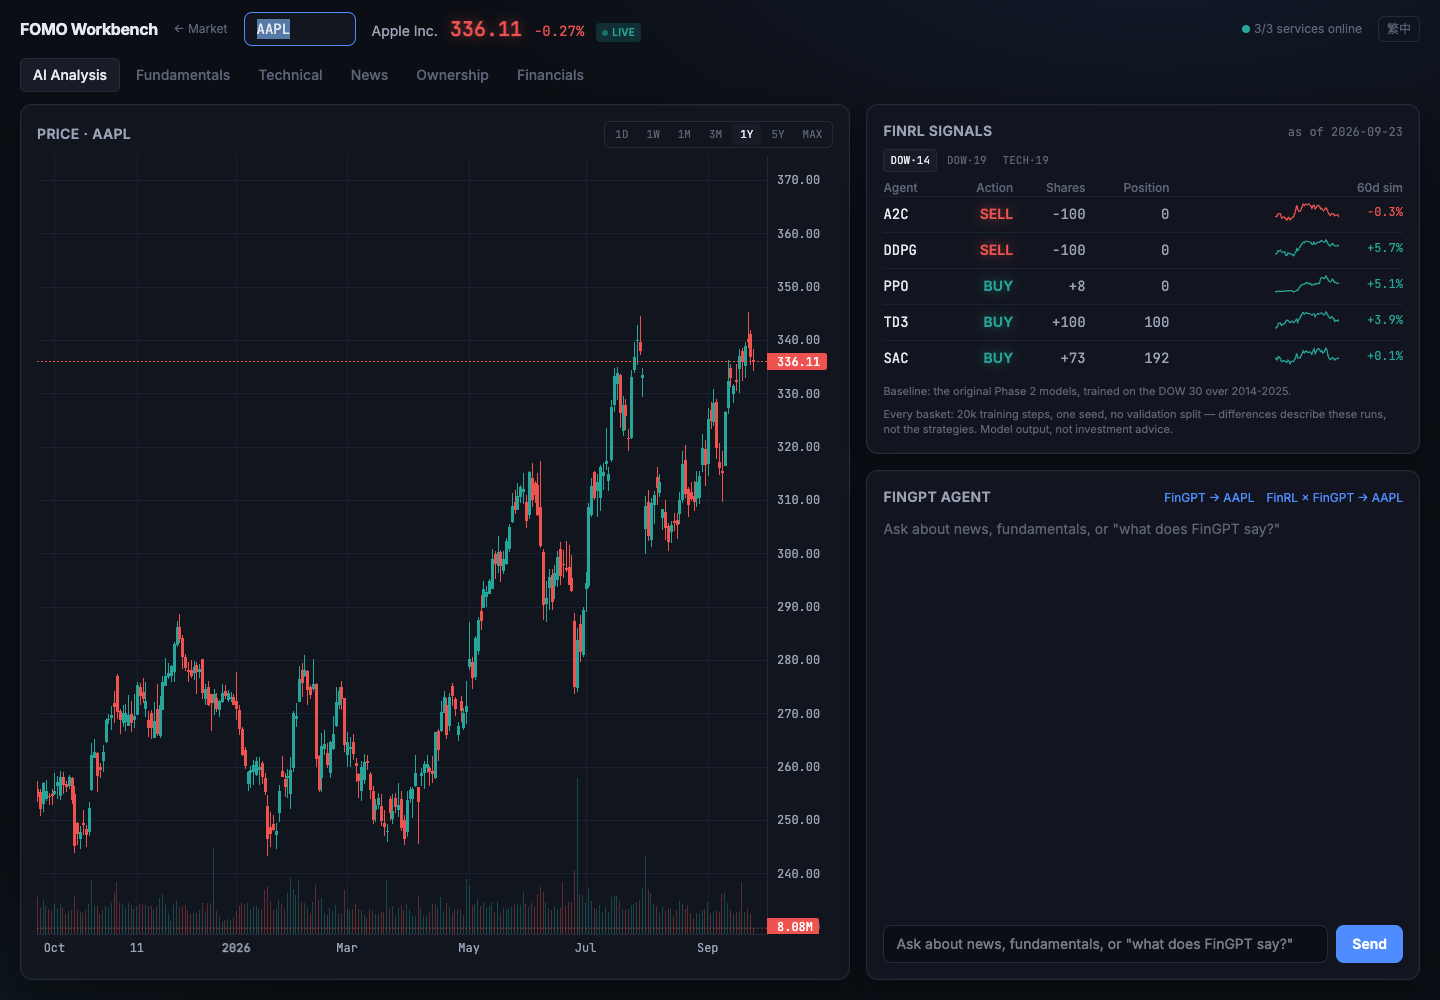
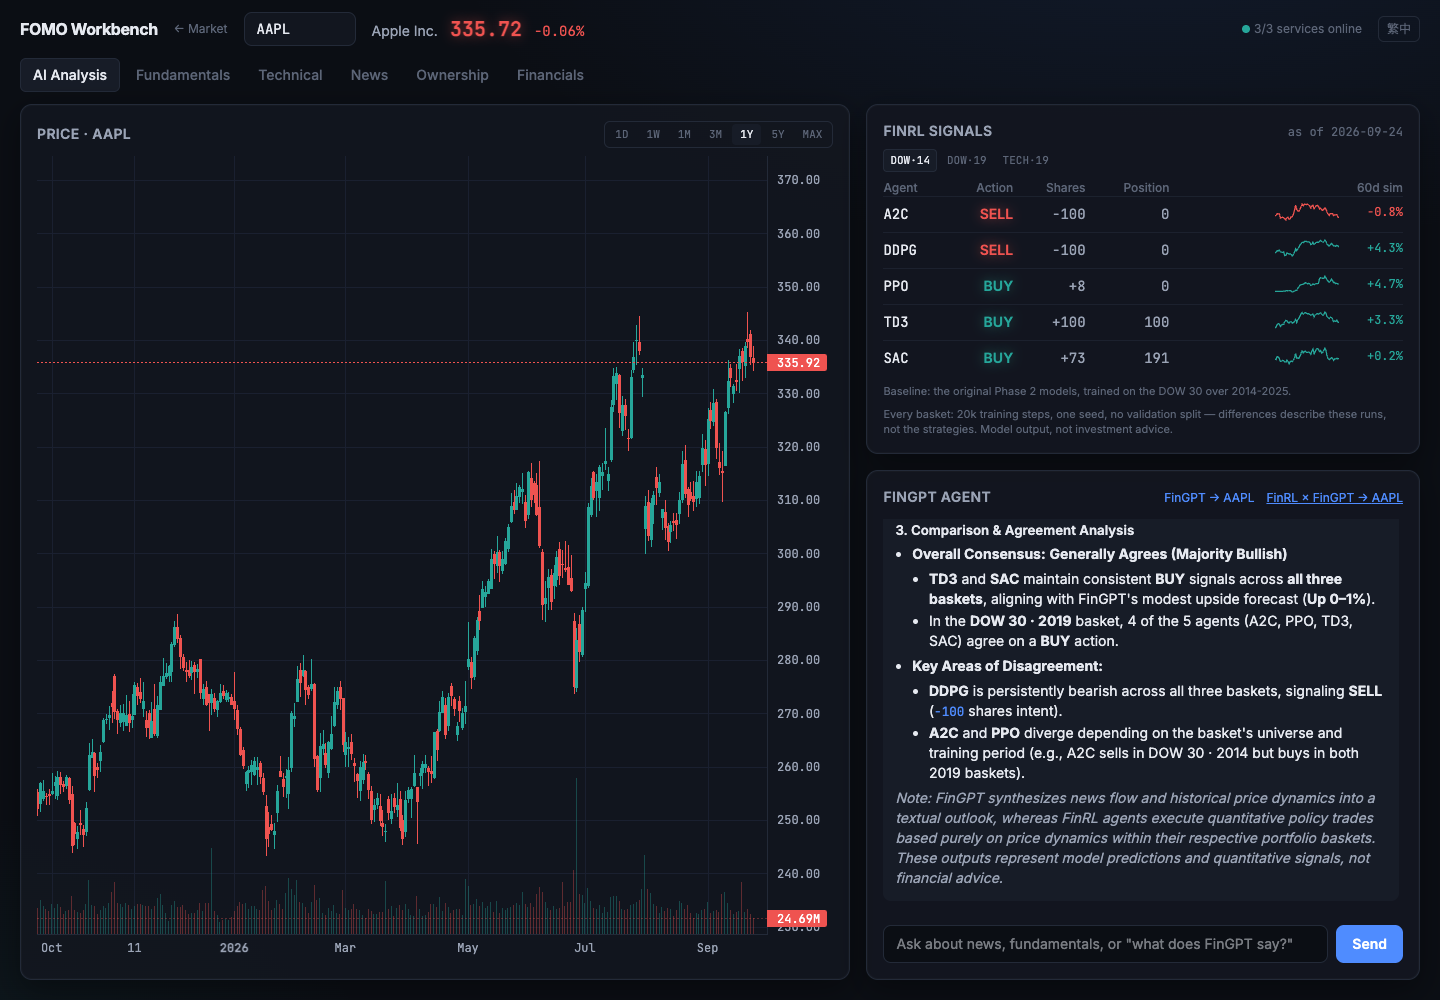
Keep the chart alive under load; cap the summary prompt; refresh stock-ai.png
A FinGPT run fires four openbb-api requests of its own, and the yfinance
provider drops requests that land together: opening a stock page during one
left the chart permanently blank with no error (the company name vanished from
the top bar too). fetchHistory now retries once on a failed or empty response.

The brief's summary prompt carried every FinGPT report in full — 16k chars for
eight tickers, and the free tier answers 503 to requests that size. It now caps
that prose at a shared budget; the predictions and FinRL tallies are untouched.

The README's stock screenshot shows a live answer again, with the assistant
pointing out that A2C and PPO flip depending on the basket's constituents and
training period.

diff --git a/ui/src/api.ts b/ui/src/api.ts
@@ -39,10 +39,20 @@ export const RANGES: Record<Range, { interval: string; days: number; intraday?: 
 export async function fetchHistory(ticker: string, range: Range = '1Y'): Promise<Bar[]> {
   const { interval, days } = RANGES[range]
   const start = new Date(Date.now() - days * 86400e3).toISOString().slice(0, 10)
-  const d = await json<{ results: Bar[] }>(`${OPENBB}/api/v1/equity/price/historical?symbol=${ticker}&provider=yfinance&start_date=${start}&interval=${interval}`)
+  const url = `${OPENBB}/api/v1/equity/price/historical?symbol=${ticker}&provider=yfinance&start_date=${start}&interval=${interval}`
+  // openbb-api's yfinance provider drops requests when several land at once (a FinGPT run fires four
+  // of its own), and a failed history fetch leaves the chart blank for good, so try once more.
+  let results: Bar[]
+  try {
+    results = (await json<{ results: Bar[] }>(url)).results
+    if (!results?.length) throw new Error('empty')
+  } catch {
+    await new Promise(r => setTimeout(r, 1500))
+    results = (await json<{ results: Bar[] }>(url)).results
+  }
   // yfinance sometimes returns a session with open/high/low/volume but close: null (seen 2026-09-22).
   // A bar with no close is unusable for every consumer — chart, indicators, top-bar price — so drop it here.
-  const bars = d.results.filter(b => b.close != null)
+  const bars = results.filter(b => b.close != null)
   if (range === '1D' && bars.length) {  // last trading session only
     const day = bars[bars.length - 1].date.slice(0, 10)
     return bars.filter(b => b.date.startsWith(day))

diff --git a/agent/brief.py b/agent/brief.py
@@ -41,6 +41,8 @@ Model outputs are opinions, not advice; do not add disclaimers, the UI shows one
 DATA:
 """
 
+ANALYSIS_BUDGET = 4500  # chars of FinGPT prose the summary prompt may carry in total (see _summary_input)
+
 _state: dict = {"running": False, "progress": None}  # progress = [done, total] while running
 
 
@@ -86,9 +88,20 @@ def _finrl_tallies(finrl):
     return out
 
 
-async def _summarize(items: list[dict]) -> dict | None:
-    data = [{"ticker": i["ticker"], "fingpt": i["fingpt"] and {"prediction": i["fingpt"]["prediction"], "analysis": i["fingpt"]["analysis"]},
+def _summary_input(items: list[dict]) -> list[dict]:
+    """Per-ticker digest for the summary prompt, with the FinGPT prose share-capped.
+
+    The full reports are ~2k chars each, so a 15-ticker watchlist would post 30k+ and the free tier
+    returns 503 on requests that large (a 16k one failed repeatedly on 2026-09-25). The summary only
+    needs the gist: `prediction` is passed whole, and the analysis is cut to a share of the budget."""
+    per = max(300, ANALYSIS_BUDGET // max(1, len(items)))
+    return [{"ticker": i["ticker"],
+             "fingpt": i["fingpt"] and {"prediction": i["fingpt"]["prediction"], "analysis": i["fingpt"]["analysis"][:per]},
              "finrl": _finrl_tallies(i["finrl"])} for i in items]
+
+
+async def _summarize(items: list[dict]) -> dict | None:
+    data = _summary_input(items)
     client = genai.Client()
     model = os.environ.get("GEMINI_MODEL", "gemini-3.6-flash")
     for wait in (5, 30, None):

diff --git a/agent/tests/test_loop.py b/agent/tests/test_loop.py
@@ -70,3 +70,22 @@ def test_finrl_tallies_counts_each_basket():
 def test_finrl_tallies_passes_errors_and_none_through():
     assert brief._finrl_tallies({"error": "XOM is in no FinRL model basket"}) == "XOM is in no FinRL model basket"
     assert brief._finrl_tallies(None) is None
+
+
+def test_summary_input_caps_the_fingpt_prose():
+    items = [{"ticker": f"T{n}", "fingpt": {"prediction": "Up by 1-2%", "analysis": "x" * 3000}, "finrl": None}
+             for n in range(15)]
+    data = brief._summary_input(items)
+    assert len(data) == 15
+    assert all(len(d["fingpt"]["analysis"]) == 300 for d in data)      # floor, not budget/15
+    assert all(d["fingpt"]["prediction"] == "Up by 1-2%" for d in data)  # the prediction is never cut
+    assert sum(len(d["fingpt"]["analysis"]) for d in data) <= 15 * 300
+
+
+def test_summary_input_leaves_short_reports_alone():
+    items = [{"ticker": "AAPL", "fingpt": {"prediction": "Down by 0-1%", "analysis": "short report"}, "finrl": None}]
+    assert brief._summary_input(items)[0]["fingpt"]["analysis"] == "short report"
+
+
+def test_summary_input_handles_a_missing_forecast():
+    assert brief._summary_input([{"ticker": "X", "fingpt": None, "finrl": None}])[0]["fingpt"] is None

diff --git a/README.md b/README.md
@@ -15,7 +15,7 @@ Built as a pre-MSc FinTech portfolio project.
 
 ![Market overview](docs/market-overview.png)
 
-![AAPL — price, the five FinRL agents of the selected model basket, and the agent panel](docs/stock-ai.png)
+![AAPL — price, the selected basket's five FinRL agents, and the assistant comparing those signals with FinGPT's outlook](docs/stock-ai.png)
 
 ## What it shows
 
